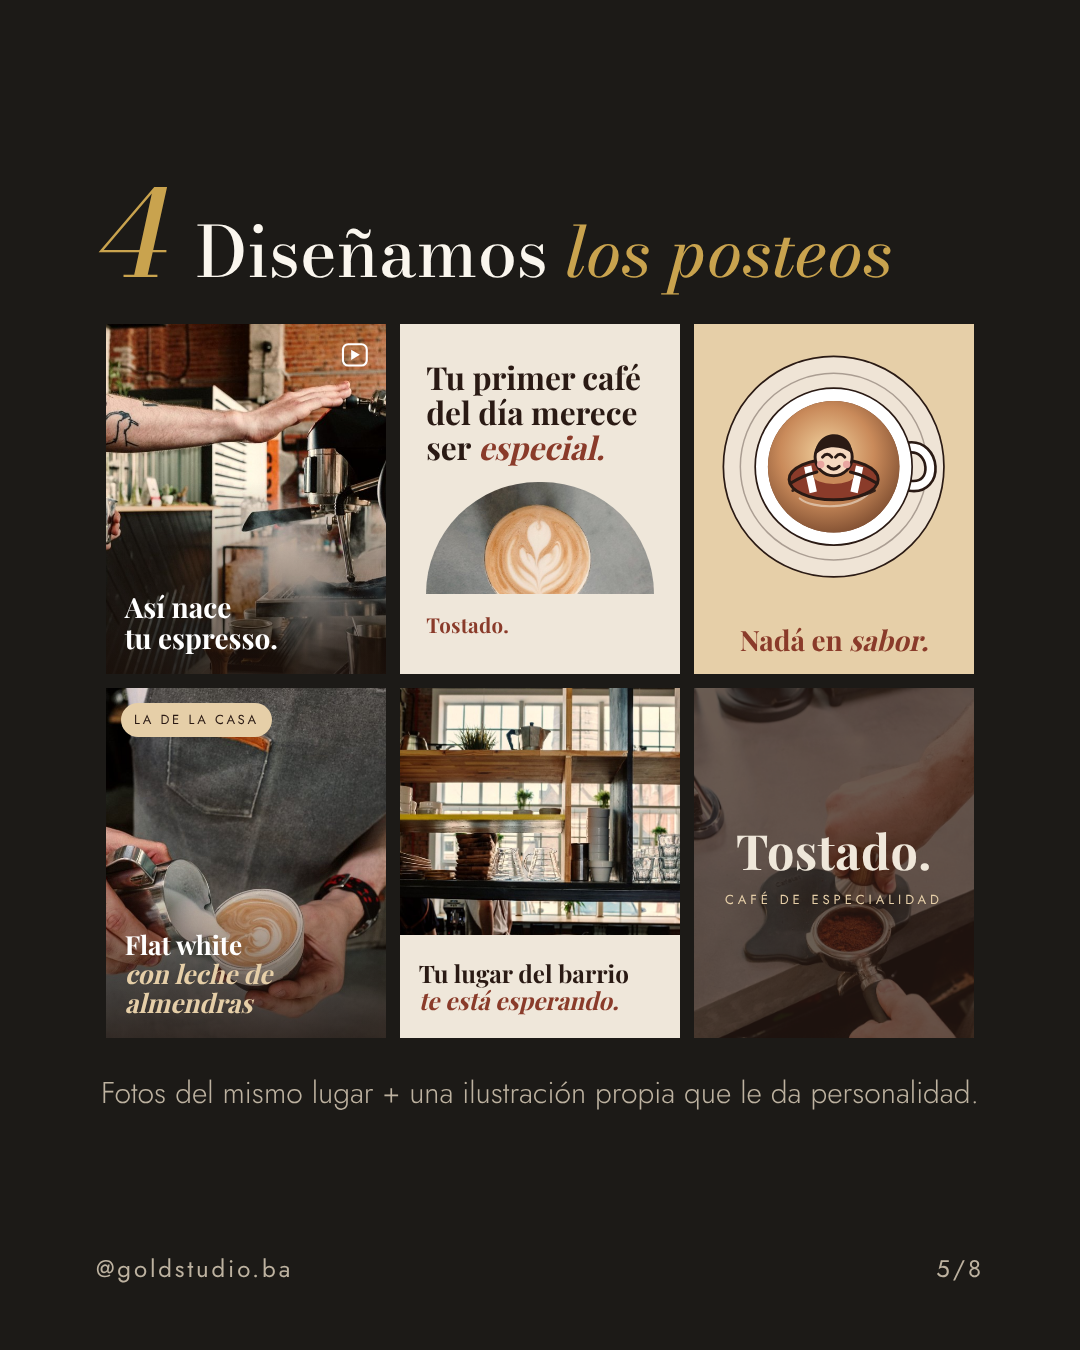
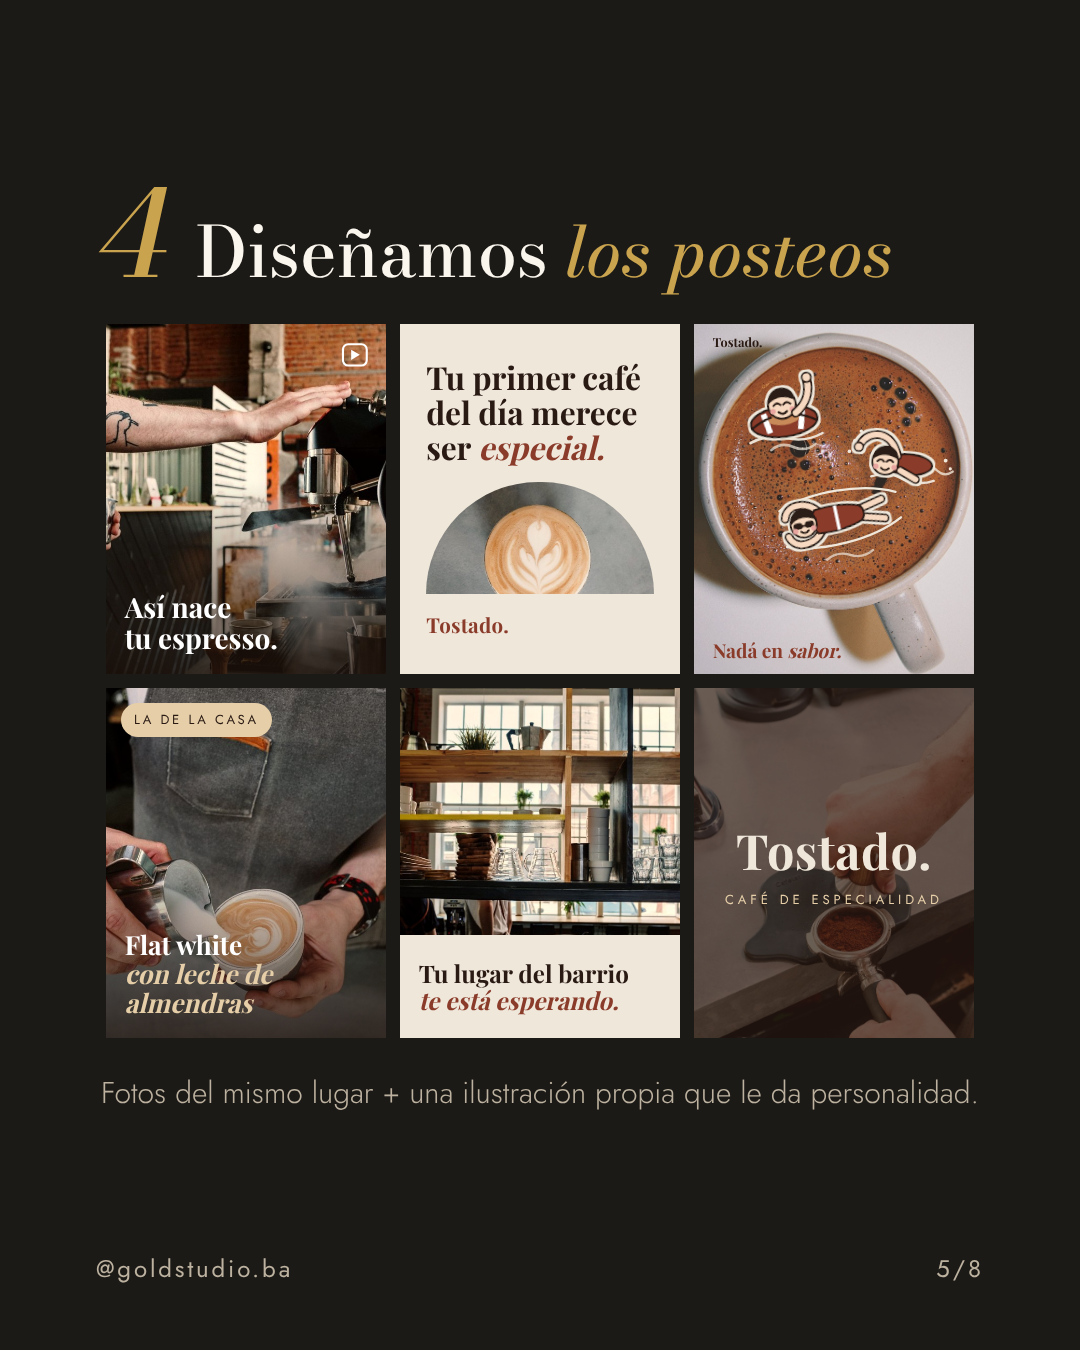
Carrusel de café: personaje nadando en una foto real, en tres poses
Claude-Session: https://claude.ai/code/session_01MqSuY797qLSbTTpQyvUeTv

Changed region(s): [[0.6417, 0.2178, 0.9167, 0.4978]]

diff --git a/contenido/scripts/carrusel_feed_cafe.py b/contenido/scripts/carrusel_feed_cafe.py
@@ -10,6 +10,7 @@ PX = {k: _img(i) for k, i in {
     'maquina': 4792683, 'barista': 4792684, 'jarra': 4792685, 'barra_taza': 4792686, 'vapor': 4792687,
     'latte_arte': 4792689, 'latte_arriba': 4792692, 'tamper': 4792693, 'local': 4792694, 'portafiltro': 4792695,
     'entrega': 4792696, 'mano_taza': 4792699, 'vertido': 4792700,
+    'taza_arriba': 11127537,  # taza vista desde arriba con crema (otra sesión), para el posteo con personajes
 }.items()}
 ESP, BOR, CRE, CAR, MAD, MAN, GRI = '#2A1A14', '#8A3B2A', '#EFE7DA', '#B4743F', '#6B4A33', '#E6CFA8', '#9A9C98'
 import ilus_cafe as I
@@ -71,10 +72,43 @@ def p_marca():
     return (f'<div class="post ph" style="{ph("tamper")}"><div style="position:absolute;inset:0;background:rgba(42,26,20,.7)"></div>'
             f'<div style="position:absolute;inset:0;display:flex;flex-direction:column;align-items:center;justify-content:center;gap:8px">{tostado(CRE, 52)}'
             f'<span style="font-size:14px;letter-spacing:.3em;color:{MAN}">CAFÉ DE ESPECIALIDAD</span></div></div>')
+# El personaje de Tostado nadando en una foto real, en distintas poses (coordenadas de la foto 1200×1877)
+SK = '#F6D9C0'
+def _limb(d): return (f'<path d="{d}" fill="none" stroke="{ESP}" stroke-width="7" stroke-linecap="round"/>'
+                      f'<path d="{d}" fill="none" stroke="{SK}" stroke-width="4.2" stroke-linecap="round"/>')
+def _wave(x, y, w, o=.95): return f'<path d="M{x-w} {y} q{w/2} -5 {w} 0 t{w} 0" fill="none" stroke="{CRE}" stroke-width="1.8" stroke-linecap="round" opacity="{o}"/>'
+def _drops(pts): return ''.join(f'<circle cx="{x}" cy="{y}" r="{r}" fill="{CRE}"/>' for x, y, r in pts)
+# cada pose devuelve (agua, personaje): el agua va sin contorno, el personaje con borde crema tipo sticker
+def pose_salvavidas():
+    agua = _wave(0, 20, 26) + _wave(4, 27, 16, .7)
+    return agua, I.swimmer_ring(0, 0, BOR).replace(I.ripple(0, 14, 22), '') + _limb('M9 3 C17 -2 21 -10 20 -19') + f'<circle cx="20" cy="-21" r="3.4" fill="{SK}" stroke="{ESP}" stroke-width="1.4"/>'
+def pose_plancha():
+    agua = (f'<path d="M-16 -14 C10 -24 50 -22 74 -10 M-16 14 C10 24 50 22 74 10" fill="none" stroke="{CRE}" stroke-width="1.8" stroke-linecap="round"/>'
+            + _wave(30, 30, 18, .7))
+    cuerpo = (_limb('M14 -6 C6 -18 -10 -18 -13 -7') + _limb('M14 6 C6 18 -10 18 -13 7')
+              + _limb('M44 -3 L62 -7') + _limb('M44 3 L62 8')
+              + f'<path d="M10 -9 C22 -11 36 -9 44 -6 C48 -3 48 3 44 6 C36 9 22 11 10 9 C6 4 6 -4 10 -9Z" fill="{BOR}" stroke="{ESP}" stroke-width="1.6"/>'
+              + f'<path d="M26 -9.5 L26 9.5" stroke="#fff" stroke-width="2.4"/>' + I.face(0, 0, 10, glasses=True))
+    return agua, cuerpo
+def pose_crol():
+    agua = _wave(14, 12, 24) + _wave(40, 4, 12, .8) + _drops([(-24, -14, 1.8), (-28, -6, 1.4), (-20, -22, 1.3), (46, -4, 1.5), (50, 2, 1.2)])
+    cuerpo = (f'<ellipse cx="18" cy="1" rx="18" ry="8" fill="{BOR}" stroke="{ESP}" stroke-width="1.6"/>'
+              + _limb('M12 6 L24 12') + _limb('M9 -5 C4 -24 -14 -24 -20 -12')
+              + f'<circle cx="-21" cy="-10" r="3.4" fill="{SK}" stroke="{ESP}" stroke-width="1.4"/>' + I.face(0, 0, 10))
+    return agua, cuerpo
+def nada_svg(vb='0 230 1200 1500', texto=True):
+    flt = ('<filter id="stk" x="-20%" y="-20%" width="140%" height="140%"><feMorphology in="SourceAlpha" operator="dilate" radius="1.5" result="d"/>'
+           f'<feFlood flood-color="{CRE}"/><feComposite in2="d" operator="in" result="o"/><feMerge><feMergeNode in="o"/><feMergeNode in="SourceGraphic"/></feMerge></filter>')
+    def g(pose, x, y, sc, r=0):
+        agua, cuerpo = pose
+        return f'<g transform="translate({x} {y}) rotate({r}) scale({sc})">{agua}<g filter="url(#stk)">{cuerpo}</g></g>'
+    t = (f'<text x="80" y="1660" font-family="XPlayfair" font-size="82" fill="{BOR}">Nadá en <tspan font-style="italic">sabor.</tspan></text>'
+         f'<text x="80" y="330" font-family="XPlayfair" font-size="54" fill="{ESP}">Tostado.</text>') if texto else ''
+    return (f'<svg viewBox="{vb}" preserveAspectRatio="xMidYMid slice" style="position:absolute;inset:0;width:100%;height:100%"><defs>{flt}</defs>'
+            f'<image href="{PX["taza_arriba"]}" x="0" y="0" width="1200" height="1877"/>'
+            + g(pose_salvavidas(), 380, 600, 6, -8) + g(pose_crol(), 820, 820, 5.6, 4) + g(pose_plancha(), 470, 1090, 5.6, -12) + t + '</svg>')
 def p_nada():
-    taza = I.cup(250, ()).replace('</svg>', '<g transform="translate(110 108) scale(1.75) translate(-110 -104)">' + I.swimmer_ring(110, 104, BOR) + '</g></svg>')
-    return (f'<div class="post" style="background:{MAN}"><div style="position:absolute;left:25px;top:28px">{taza}</div>'
-            f'<div class="t" style="position:absolute;left:0;right:0;bottom:20px;text-align:center;font-size:30px;color:{BOR}">Nadá en <i>sabor.</i></div></div>')
+    return f'<div class="post">{nada_svg()}</div>'
 def p_entrega():
     return (f'<div class="post ph" style="{ph("entrega", "center 40%")}"><div style="position:absolute;left:18px;top:18px;background:{CRE};padding:14px 18px">'
             f'<div class="t" style="font-size:24px;color:{ESP}">Para vos,<br><i style="color:{BOR}">recién hecho.</i></div></div></div>')
@@ -126,14 +160,12 @@ s_dis = (f'{step(4, "Diseñamos <em>los posteos</em>")}{feed6}<p class="cap" sty
 HEART = '<svg width="34" height="34" viewBox="0 0 24 24" fill="none" stroke="#1C1A17" stroke-width="1.7"><path d="M12 20s-7-4.4-9-8.7C1.6 8.3 3.6 5 6.8 5c2 0 3.4 1.1 4.2 2.4h2C13.8 6.1 15.2 5 17.2 5c3.2 0 5.2 3.3 3.8 6.3-2 4.3-9 8.7-9 8.7z"/></svg>'
 BUB = '<svg width="34" height="34" viewBox="0 0 24 24" fill="none" stroke="#1C1A17" stroke-width="1.7"><path d="M20 11.5a8 8 0 0 1-11.6 7.1L4 20l1.4-4.2A8 8 0 1 1 20 11.5z"/></svg>'
 SEND = '<svg width="34" height="34" viewBox="0 0 24 24" fill="none" stroke="#1C1A17" stroke-width="1.7"><path d="M21 3 3 10.5l7 3 3 7.5z M10 13.5 21 3"/></svg>'
-big = (f'<div class="shadow" style="width:760px;align-self:center;background:#fff;border-radius:28px;overflow:hidden;color:#1C1A17">'
+big = (f'<div class="shadow" style="width:690px;align-self:center;background:#fff;border-radius:28px;overflow:hidden;color:#1C1A17">'
        f'<div style="display:flex;align-items:center;gap:14px;padding:16px 20px"><div style="width:48px;height:48px;border-radius:50%;background:{ESP};display:grid;place-items:center">{tostado(CRE, 11)}</div>'
        f'<b style="font-size:22px;font-weight:500">tostado.cafe</b><span style="margin-left:auto;font-size:28px;letter-spacing:2px">···</span></div>'
-       f'<div class="ph" style="height:820px;position:relative;{ph("mano_taza", "center 70%")}"><div style="position:absolute;inset:0;background:linear-gradient(rgba(30,18,12,.5),transparent 45%)"></div>'
-       f'<div style="position:absolute;left:44px;right:44px;top:44px;font-family:XPlayfair;font-size:64px;line-height:1.1;color:#fff">Tu primer café del día merece ser <i style="color:{MAN}">especial.</i></div>'
-       f'<div style="position:absolute;right:30px;bottom:26px">{tostado("#fff", 30)}</div></div>'
+       f'<div style="height:862px;position:relative;overflow:hidden">{nada_svg()}</div>'
        f'<div style="display:flex;gap:20px;padding:16px 20px">{HEART}{BUB}{SEND}</div></div>')
-s_big = f'<div class="eb" style="text-align:center">De cerca</div>{big}<p class="cap" style="margin:0;text-align:center">La foto cuenta, la frase <b>engancha.</b></p>'
+s_big = f'<div class="eb" style="text-align:center">De cerca</div>{big}<p class="cap" style="margin:0;text-align:center">Una foto real + una ilustración propia: <b>así se vuelve inconfundible.</b></p>'
 
 # 7. Perfil
 prof = ('<div class="shadow" style="width:560px;border-radius:56px;background:#111;padding:14px;align-self:center"><div style="border-radius:44px;overflow:hidden;background:#fff;color:#1C1A17">'
